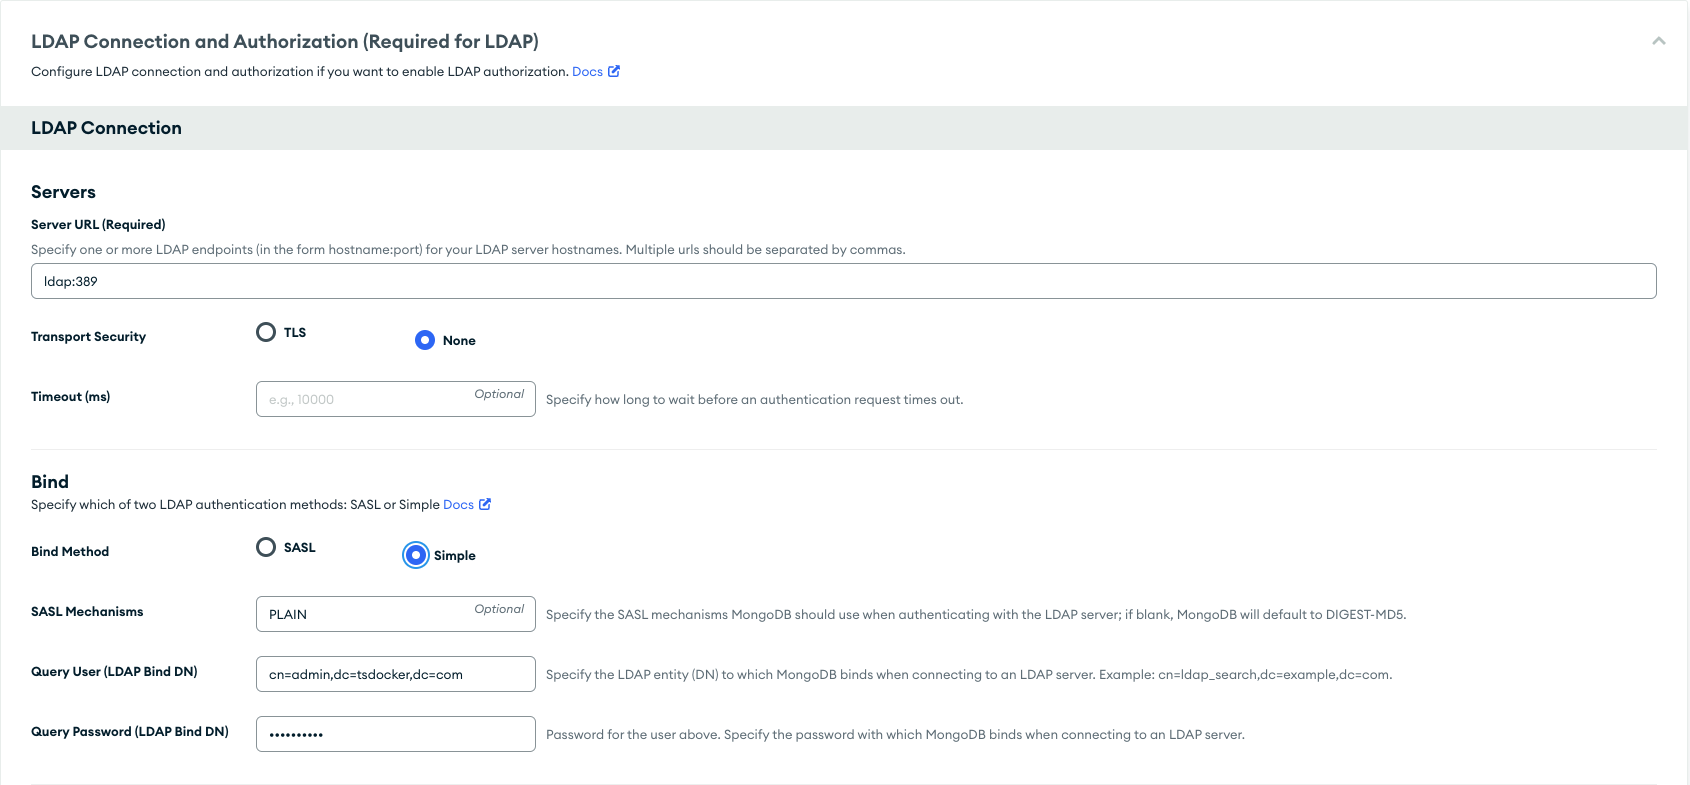
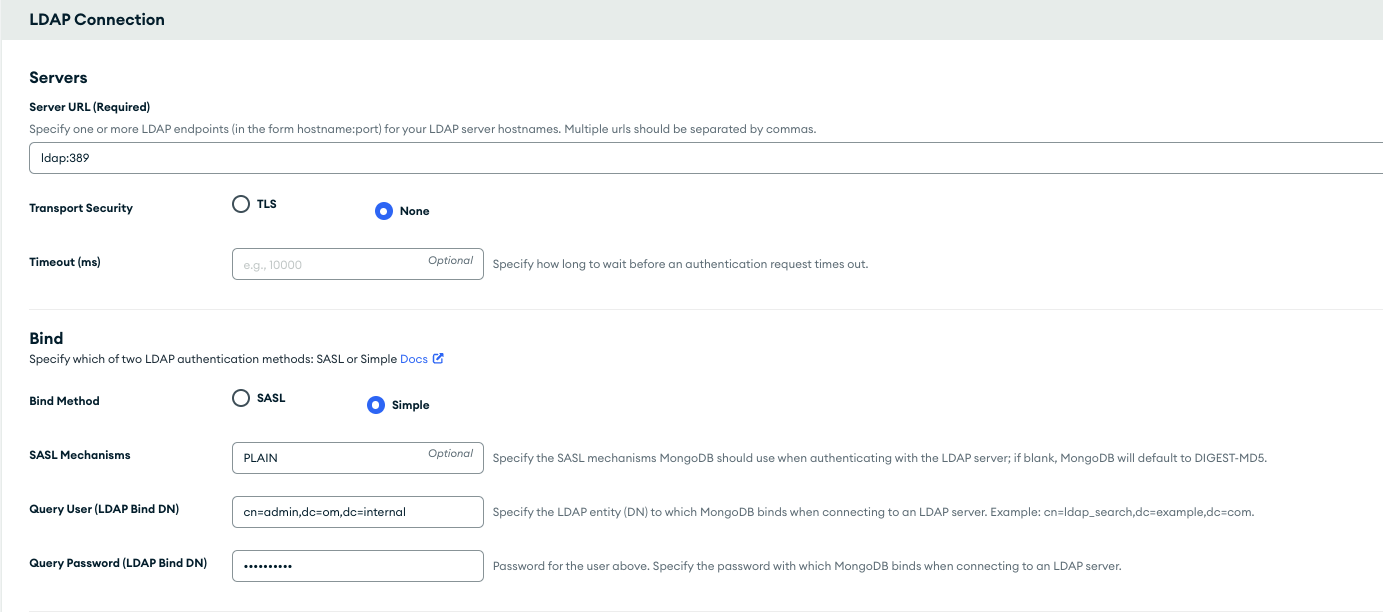
Updated docs for LDAP

diff --git a/ops-manager/docs/LDAP.md b/ops-manager/docs/LDAP.md
@@ -60,14 +60,13 @@ LDAP Global Role Read Only: `cn=readers,ou=omgroups,dc=om,dc=internal`
 3. `Review and Deploy` & `Approve and Deploy` the changes.
 4. Access the `Settings` tab and select `LDAP` Then select `Native LDAP Authentication`.
 ![](images/LDAP-08.png)
-![](images/LDAP-09.png)
 Server URL (Required): `ldap:389`
 Transport Security: `None`
 Bind Method: `Simple`
 SASL Mechanisms: `PLAIN`
 Query User (LDAP Bind DN): `cn=admin,dc=om,dc=internal`
 Query Password (LDAP Bind DN): `Password1!`
-![](images/LDAP-10.png)
+![](images/LDAP-09.png)
 ```
 [
   {
@@ -77,10 +76,10 @@ Query Password (LDAP Bind DN): `Password1!`
 ]
 ```
 5. Click on `Validate LDAP Configuration` and make sure it returns Green and OK - if not retrace your steps and follow this guide to the T.
-![](images/LDAP-11.png)
+![](images/LDAP-10.png)
 
 6. Under `LDAP Authorization` Turn on the `Acquire users and roles from LDAP` switch and fill in the following:
-![](images/LDAP-12.png)
+![](images/LDAP-11.png)
 Authorization Query Template: 
 ```
 {USER}?memberOf?base
